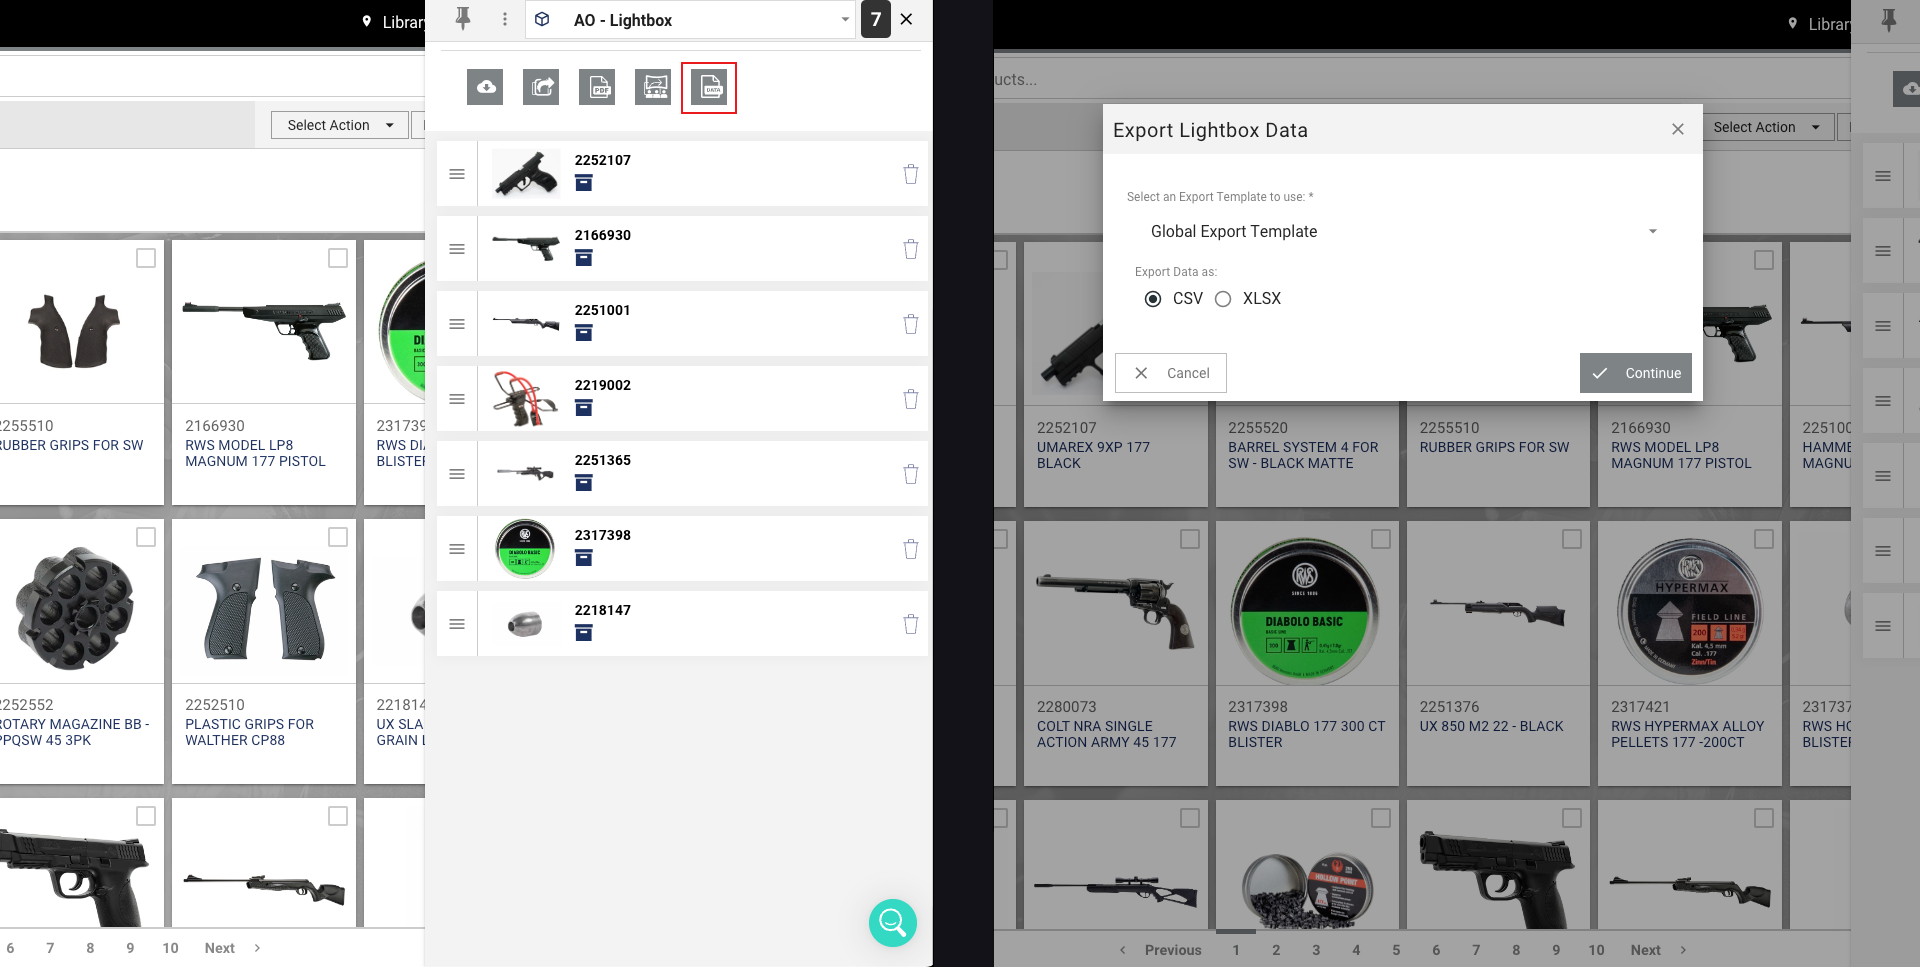
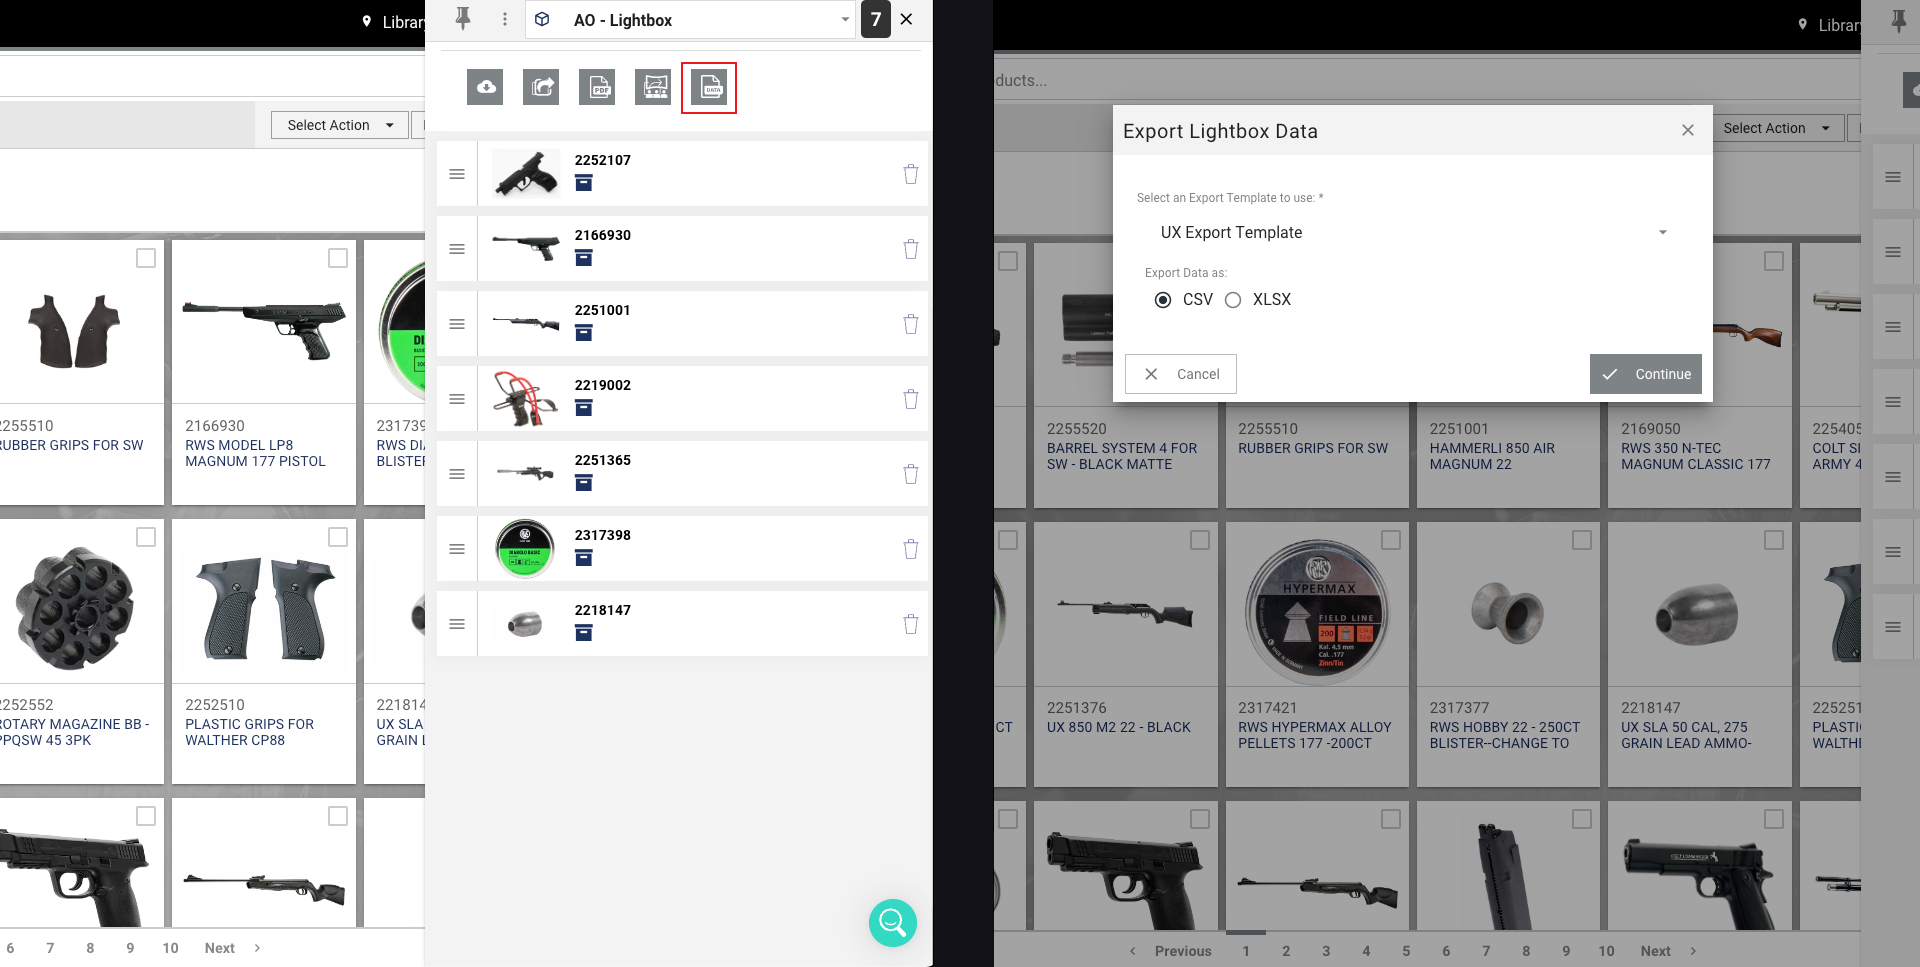
Modal update

diff --git a/index.html b/index.html
@@ -37,22 +37,46 @@
             <div class="videos-container">
                 <div id="video">
                     <span>Add a single product to your Lightbox:</span>
-                    <p>Single Product Video</p>
+                    <p><button id="myBtn"><img src="/images/Product-Select_Single_VideoThumbnail.png" class="video-thumbnail"/></button></p>
+                    <div id="myModal" class="modal">
+                        <div class="modal-content">
+                            <span class="close">&times;</span>
+                            <p>Video Content</p>
+                        </div>
+                    </div>
                     <p>View written instructions <a href="#single-product">here</a>.</p>
                 </div>
                 <div id="video">
                     <span>Add products in bulk to your Lightbox:</span>
-                    <p>Bulk Product Video</p>
+                    <p><button id="myBtn"><img src="/images/Bulk_Select_VideoThumbnail.png" class="video-thumbnail"/></button></p>
+                    <div id="myModal" class="modal">
+                        <div class="modal-content">
+                            <span class="close">&times;</span>
+                            <p>Video Content</p>
+                        </div>
+                    </div>
                     <p>View written instructions <a href="#bulk-add">here</a>.</p>
                 </div>
                 <div id="video">
                     <span>Download Images</span>
-                    <p>Download Video</p>
+                    <p><button id="myBtn"><img src="/images/Download_Images_VideoThumbnail.png" class="video-thumbnail"/></button></p>
+                    <div id="myModal" class="modal">
+                        <div class="modal-content">
+                            <span class="close">&times;</span>
+                            <p>Video Content</p>
+                        </div>
+                    </div>
                     <p>View written instructions <a href="#download-images">here</a>.</p>
                 </div>
                 <div id="video">
                     <span>Download Product Info</span>
-                    <p>Download Video</p>
+                    <p><button id="myBtn"><img src="/images/Download_Data_VideoThumbnail.png" class="video-thumbnail"/></button></p>
+                    <div id="myModal" class="modal">
+                        <div class="modal-content">
+                            <span class="close">&times;</span>
+                            <p>Video Content</p>
+                        </div>
+                    </div>
                     <p>View written instructions <a href="#download-product-info">here</a>.</p>
                 </div>
             </div>
@@ -98,11 +122,27 @@
                 <img src="https://github.com/Hollenfeuer1/Amplifi-How-To/blob/main/images/Folder_Screenshot.png?raw=true" />
             </div>
             <h3 id="download-product-info">Step 2: Download Product Information</h3>
-            <p>To download product info click the 'Generate Lightbox Data' from within the Lightbox panel. Leave the Export Template as 'Global Export Template' and then choose whether between 'CSV' or 'XLSX' and then click 'Continue'.</p>
+            <p>To download product info click the 'Generate Lightbox Data' from within the Lightbox panel. Leave the Export Template as 'UX Export Template' and then choose whether between 'CSV' or 'XLSX' and then click 'Continue'. This will download it straight to your 'Downloads' folder on your computer.</p>
             <img src="/images/Download_Data.png" />
         </div>
     </div>
     <footer>Umarex USA, Inc.</footer>
+    <script>
+        var modal = document.getElementById("myModal");
+        var btn = document.getElementById("myBtn");
+        var span = document.getElementsByClassName("close")[0];
+        btn.onclick = function() {
+            modal.style.display = "block";
+        }
+        span.onclick = function() {
+            modal.style.display = "none";
+        }
+        window.onclick = function(event) {
+            if (event.target == modal) {
+                modal.style.display = "none";
+            }
+        }
+    </script>
 </body>
 
 </html>

diff --git a/styles.css b/styles.css
@@ -48,8 +48,44 @@ img {
     display: inline-flex;
     flex-direction: row;
     flex-wrap: wrap;
+    gap: 2rem;
     max-width: 1200px;
     justify-content: space-evenly;
+}
+.video-thumbnail {
+    max-width: 250px;
+}
+.modal {
+    display: none;
+    position: fixed;
+    z-index: 1;
+    padding-top: 100px;
+    left: 0;
+    top: 0;
+    width: 100%;
+    height: 100%;
+    overflow: auto;
+    background-color: #000;
+    background-color: rgba(0,0,0,0.4);
+}
+.modal-content {
+    background: #fefefe;
+    margin: auto;
+    padding: 20px;
+    border: 1px solid #888;
+    width: 80%;
+    max-width: 1200px;
+}
+.close {
+    color: #aaa;
+    float: right;
+    font-size: 28px;
+    font-weight: bold;
+}
+.clover:hover,.close:focus {
+    color: #000;
+    text-decoration: none;
+    cursor: pointer;
 }
 footer {
     background-color: #000;
